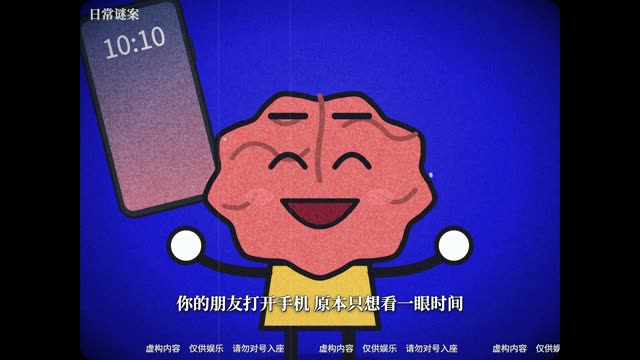
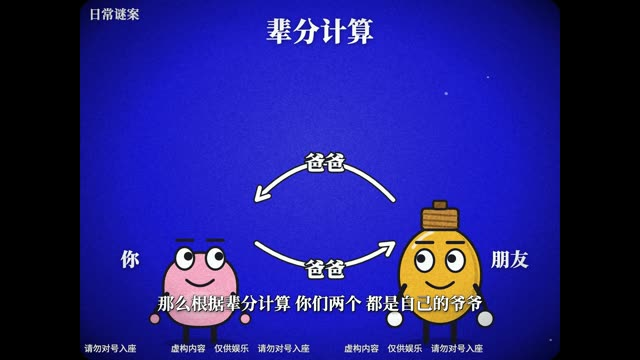
Gallery: mystery sample is now "Why your friend should call you dad"

diff --git a/README.md b/README.md
@@ -152,7 +152,7 @@ One sample per style, all made with this skill (GIFs are 7 s cuts; the full mp4s
 <tr>
 <td width="50%" valign="top">
 <a href="https://github.com/DylanDDeng/BB-Video/releases/download/samples/mystery.mp4"><img src="examples/mystery/preview.gif" width="100%" alt="mystery"></a><br>
-<b><code>mystery</code></b> · How to tell if your friend is controlled by their phone (a deadpan mock-science checklist)<br>
+<b><code>mystery</code></b> · Why your friend should call you dad (a deadpan mock-science proof)<br>
 <sub>Fiction, for fun · cartoons drawn in code</sub><br>
 <a href="https://github.com/DylanDDeng/BB-Video/releases/download/samples/mystery.mp4">Full video</a>
 </td>

diff --git a/README.zh-CN.md b/README.zh-CN.md
@@ -152,7 +152,7 @@
 <tr>
 <td width="50%" valign="top">
 <a href="https://github.com/DylanDDeng/BB-Video/releases/download/samples/mystery.mp4"><img src="examples/mystery/preview.gif" width="100%" alt="mystery"></a><br>
-<b><code>mystery</code></b> · 如何判断你的朋友是不是已经被手机控制了（假正经科普清单）<br>
+<b><code>mystery</code></b> · 为什么你的朋友应该叫你爸爸（假正经科普论证）<br>
 <sub>虚构内容，仅供娱乐 · 卡通画面由代码绘制</sub><br>
 <a href="https://github.com/DylanDDeng/BB-Video/releases/download/samples/mystery.mp4">完整视频</a>
 </td>
